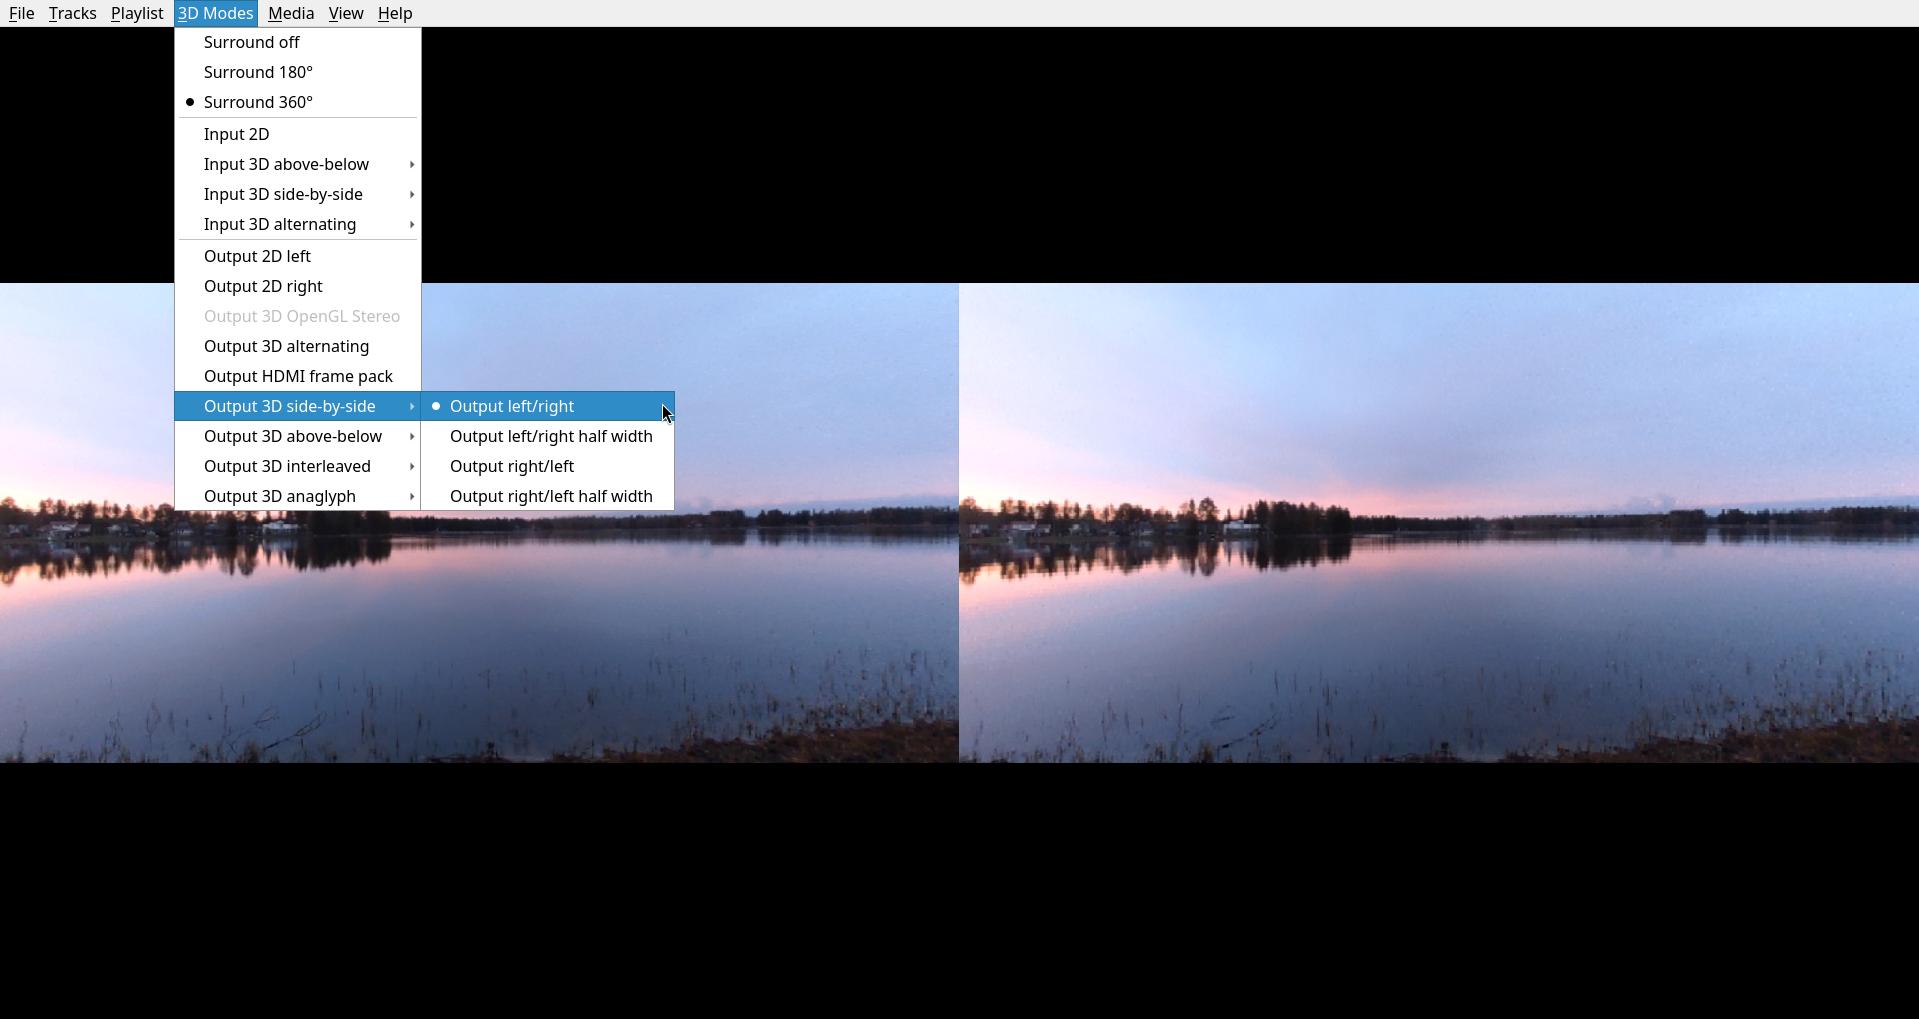
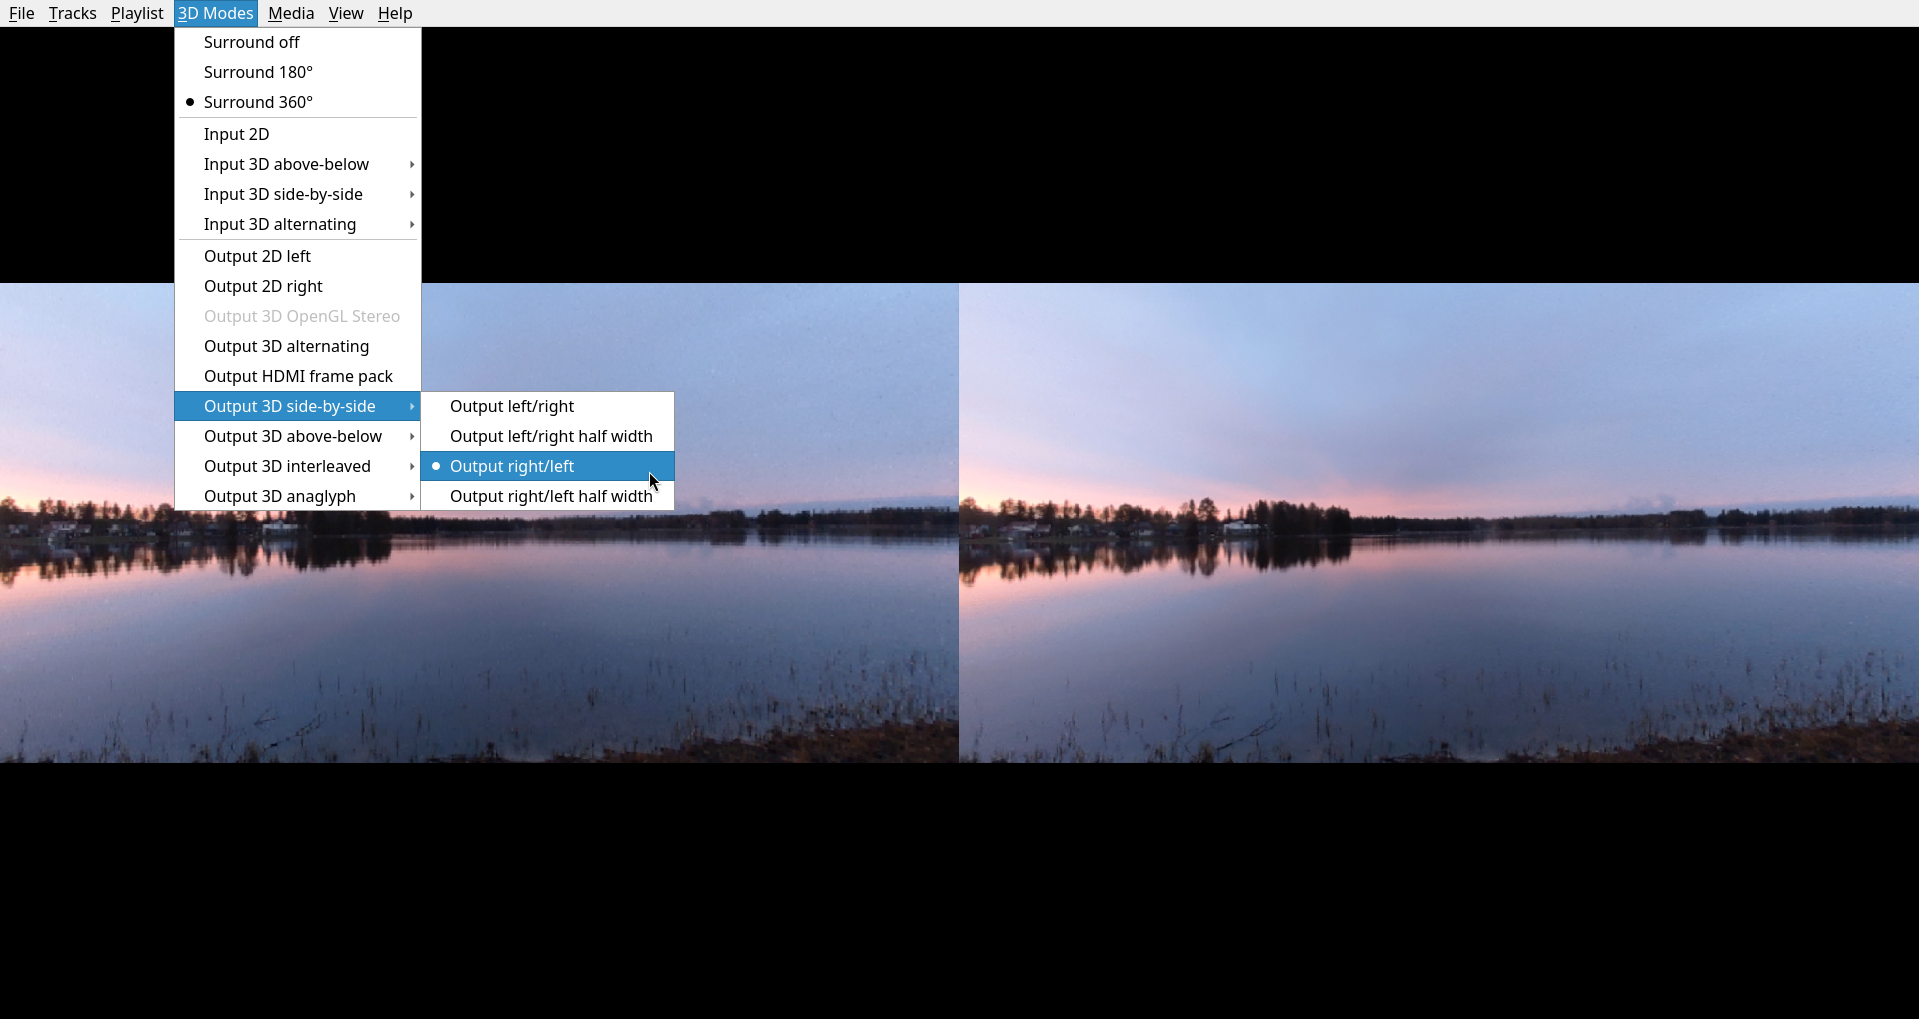
Inverted right and left views, and corrected the Bino setup explanation

diff --git a/sunset-stereo.html b/sunset-stereo.html
@@ -35,7 +35,7 @@
       <ul>
         <li><a href="images/bino_setup_for_stereo/bino_setup_for_stereo1.png">Surround 360°</a></li>
         <li><a href="images/bino_setup_for_stereo/bino_setup_for_stereo2.png">Input 3D above-below &rarr; Input top/bottom</a></li>
-        <li>Choose the output method of your choice if you have VR equipment, or <a href="images/bino_setup_for_stereo/bino_setup_for_stereo3.png">Output 3D side-by-side &rarr; Output Left/Right</a> and cross your eyes until the two images merge and the 3D scene appears</li>
+        <li>Choose the output method of your choice if you have VR equipment, or <a href="images/bino_setup_for_stereo/bino_setup_for_stereo3.png">Output 3D side-by-side &rarr; Output Right/Left</a> and cross your eyes until the two images merge and the 3D scene appears</li>
       </ul>
   </body>
 
